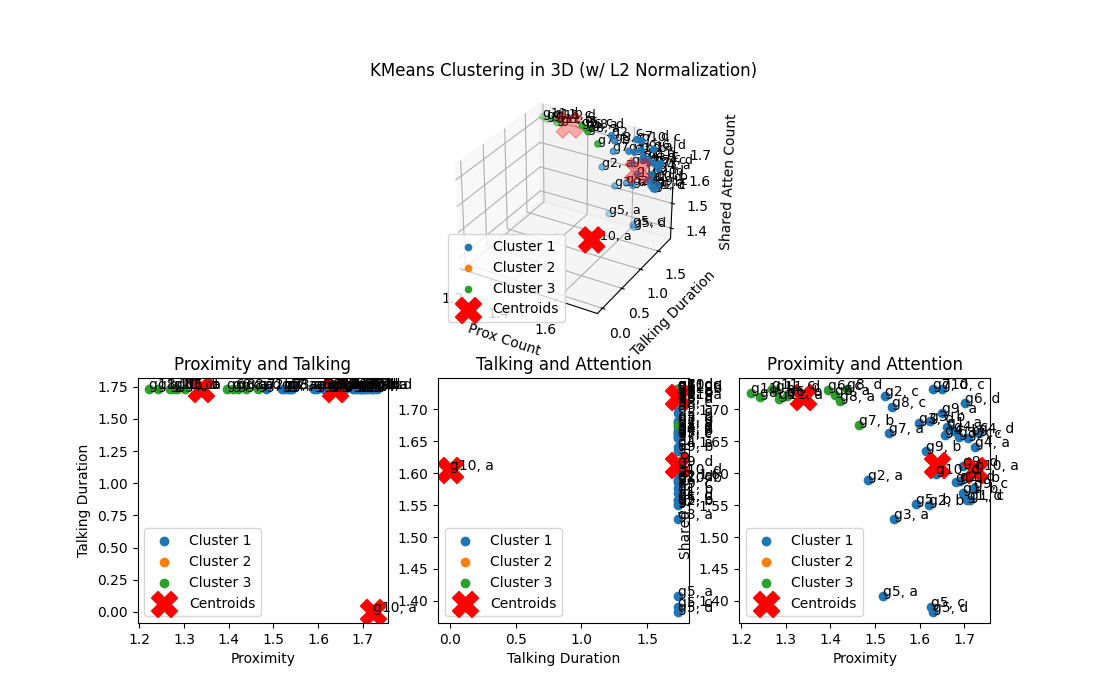
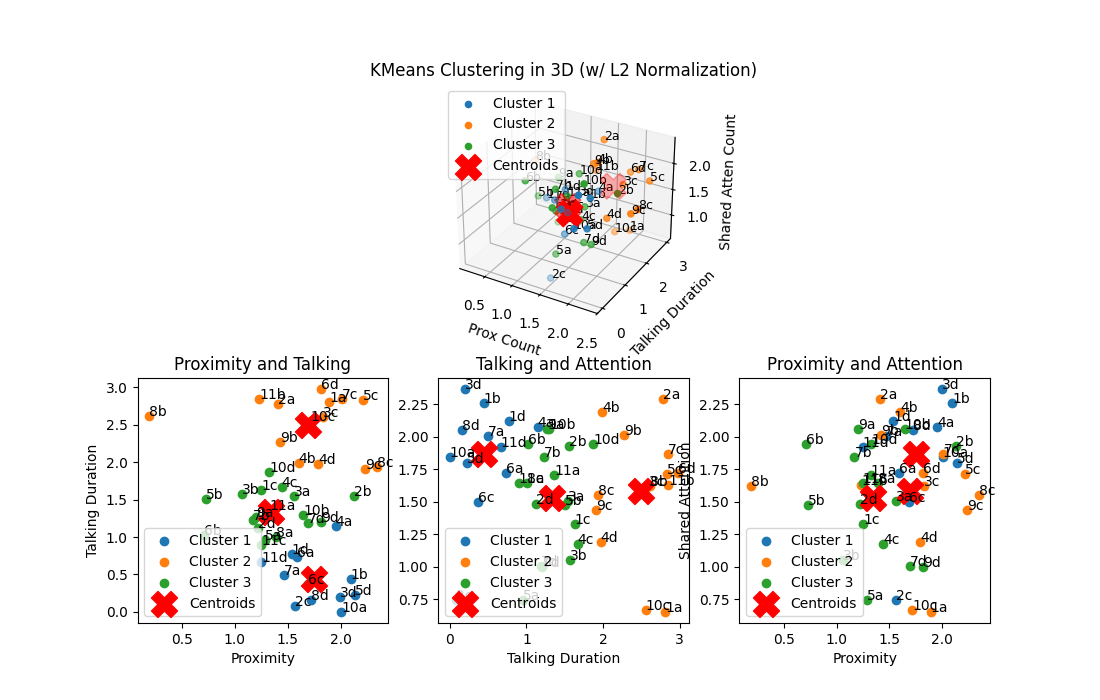
Normalized 3feature kmeans and 2feature kmeans (3 configurations) graph currently l1 but did also, l2.

diff --git a/kmeans_all_participant_2axis_summed_nodes_normalized.py b/kmeans_all_participant_2axis_summed_nodes_normalized.py
@@ -1,0 +1,201 @@
+# grab data
+import csv
+
+import matplotlib
+from DataSet import DataSet #custom class
+from OptimalClusterFinder import OptimalClusterFinder #custom class
+import numpy as np #scikit-learn requires this
+import itertools
+
+
+#kmeans
+from sklearn.cluster import KMeans #sci-kit learn
+import matplotlib.pyplot as plt # plotting
+from mpl_toolkits.mplot3d import Axes3D #3D MatPlotLib - if you have matplotlib, you have this
+
+#benchmark tutorial
+from time import time
+from sklearn import metrics
+from sklearn.pipeline import make_pipeline
+from sklearn.preprocessing import StandardScaler
+from sklearn.cluster import KMeans
+from sklearn.decomposition import PCA
+
+#save
+import os
+
+#debugging
+from pprint import pprint 
+
+def load_csv(file_name:str, directory:str="Data/")->list:
+    """Load CSV from Data directory.
+    :param file_name: Filename
+    :param directory: Directory where file is stored.
+    :returns: CSV data as a list contain a list for rows. Each row represents a group."""
+    file_path="Data/"
+    file_path+=file_name
+    with open(file_path, 'r') as file:
+        csv_reader = csv.reader(file)
+        data = []
+        for row in csv_reader:
+            data.append(row)
+    return data
+
+def clean_compeletion_csv(data:list)->tuple:
+    """Cleans up time/accuracy CSV for convient use.
+        :param data: List of list from load_csv(file_name) where each row is a group.
+        :returns: List of tuples (time (in secs):float, accuracy as percentage:float) with each row represents a group."""
+    clean_data=[]
+    data=data[1:]
+    for row in data:
+        junk, junk2, time = row[1].split()
+        hours, minutes, seconds = map(float, time.split(':'))
+        in_seconds = minutes * 60 + seconds
+        clean_data.append((in_seconds,float(row[2])))
+    return clean_data
+
+    #k-means documention: https://scikit-learn.org/1.5/modules/generated/sklearn.cluster.KMeans.html
+    #k-mean tutorial: https://scikit-learn.org/1.5/auto_examples/cluster/plot_kmeans_digits.html#sphx-glr-auto-examples-cluster-plot-kmeans-digits-py
+
+def get_names(num_groups)->list:
+    """Made this so I can add names to the dots in the matplotlib charts.
+    :returns: array of strings with names of each person [g#, letter], where g# is the group number and letter is the person in the group (person a, person b, person c, person d)"""
+    
+    total_participants=num_groups
+    names=[]
+    p=None
+    for i in range(num_groups*4):
+        if i % 4 == 0:
+            p=4
+        else:
+            p=i%4
+        names.append(f'{(i//4)+1}{chr(96+p)}')
+    return names
+
+def main():
+    num_groups=11
+    total_participants=num_groups*4
+    directory="/Graphs/All_Participant/Summed_Nodes/"
+    graph_name="l1_normalized_summed_nodes_of_for_2features"
+    
+    #load json data - must give a file name, can also take another folder relative to the location of the current file that calls it in the directory
+    prox_data=DataSet("proximity_graphs.json")
+    convo_data=DataSet("conversation_graphs.json")
+    atten_data=DataSet("shared_attention_graphs.json")
+
+    fig = plt.figure(figsize=(15, 5))
+    data_sets=2
+    num_clusters = 3
+    data_features=np.zeros((total_participants,data_sets))
+
+    #Overhead: so I can do this in one snazzy loop
+    features=[prox_data,convo_data, atten_data]
+    axises=[(0,1),(0,2),(1,2)]
+    axis_name=["Talking", "Proximity", "Attention"]
+    x_axis=0 #proximity
+    y_axis=1 #talking
+    name_labels=get_names(num_groups=11)
+    no_norm_data_features=np.zeros((total_participants,data_sets))
+
+
+    #Doing 2 Feature Kmeans for 3 combos of graphs
+    for index, axis in enumerate(axises):
+        for i in range(total_participants):
+            no_norm_data_features[i][0]=features[axis[0]].get_sum_all_nodes()[i]
+            no_norm_data_features[i][1]=features[axis[1]].get_sum_all_nodes()[i]
+        print("NOT NORMALIZED=========================")
+        print(no_norm_data_features)
+
+        for i in range(total_participants):
+            data_features[i][0]=features[axis[0]].get_sum_all_nodes_normalize(1)[i]
+            data_features[i][1]=features[axis[1]].get_sum_all_nodes_normalize(1)[i]
+
+        print("NORMALIZED=========================")
+        print(data_features)
+
+        ###### Make K Means Model and Extract Features ##########
+        data=data_features
+
+        # determine # of clusters
+        # leave this commented to show the final graph, you can view 3 silloute score OR final graph
+        # this_graph_name=str(graph_name + "_" + axis_name[axis[0]] + "_" + axis_name[axis[1]])
+        # finder = OptimalClusterFinder(data=data, max_clusters=10, graph_name=this_graph_name,directory=directory)
+        # finder.find_optimal_clusters()
+        # optimal_clusters = finder.get_optimal_clusters()
+        # print(f"")
+        # finder.plot_combined_metrics()
+
+        if axis==(0,1): #prox/convo
+            num_clusters=4
+        elif axis==(0,2): #prox/attention
+            num_clusters=3
+        elif axis==(1,2): #convo/atten
+            num_clusters=3
+
+        # Create KMeans model and fit the data
+        kmeans = KMeans(n_clusters=num_clusters, random_state=21) # seed at 21 because of forever 21
+        kmeans.fit(data)
+
+        # After the model is made, get the cluster centroids and labels
+        centroids = kmeans.cluster_centers_ # the center points of the cluster generated by the Kmeans model for each feature
+        labels = kmeans.labels_ # returns labels for each feature - this is useful because it tells us who is in what roles
+
+        roles=[[] for _ in range(num_clusters)]
+        p=None
+
+        for i, label in enumerate(labels):
+            if i % 4 == 0:
+                p=4
+            else:
+                p=i%4
+            roles[label].append(f'{(i//4)+1}{chr(96+p)}')
+
+        ## prints roles define by k cluster
+        print_name=graph_name + ":\n"+ axis_name[axis[0]] +" & "+axis_name[axis[1]]
+        print(print_name)
+        # if axis==(0,1):
+        #     print(f'Role 1\tRole 2\tRole 3\tRole 4')#there is 3 if num_clusters=3
+        #     print(29 * "_")
+        #     for element in itertools.zip_longest(*roles):
+        #         print(f'{element[0]}\t{element[1]}\t{element[2]}\t{element[3]}')#there is 3 if num_clusters=3
+
+        # else:
+        #     print(f'Role 1\tRole 2\tRole 3')#there is 3 if num_clusters=3
+        #     print(22 * "_")
+
+        #     for element in itertools.zip_longest(*roles):
+        #         print(f'{element[0]}\t{element[1]}\t{element[2]}')#there is 3 if num_clusters=3
+
+        print("\n")
+
+        ######## Plotting 2 feature of 3 feature Graph ########
+
+        num=130+1+index
+        ax1 = fig.add_subplot(num)
+
+        # Scatter plot
+        for i in range(num_clusters):
+            ax1.scatter(data[labels == i, x_axis], data[labels == i, y_axis], label=f'Cluster {i + 1}')
+
+        # labels put in the plot
+        for i in range(total_participants):
+            ax1.text(data[i, x_axis], data[i, y_axis], name_labels[i])  # Label each point with its index
+
+        # Plot centroids - center dots for clusters
+        ax1.scatter(centroids[:, x_axis], centroids[:, y_axis], s=350, c='red', marker='X', label='Centroids')
+
+        ax1.set_title(f'Kmeans for 2 Feature - {axis_name[axis[0]]} and {axis_name[axis[1]]}')
+        ax1.set_xlabel(f'{axis_name[axis[0]]}')
+        ax1.set_ylabel(f'{axis_name[axis[1]]}')
+        ax1.legend()
+
+
+    path=os.getcwd() 
+    path += directory
+    path += graph_name +".png"
+    plt.savefig(path)
+
+    plt.show()
+
+if __name__ == "__main__":
+    main()

diff --git a/kmeans_all_participant_3Daxis_summed_nodes_normalized.py b/kmeans_all_participant_3Daxis_summed_nodes_normalized.py
@@ -3,6 +3,7 @@ import csv
 
 import matplotlib
 from DataSet import DataSet #custom class
+from OptimalClusterFinder import OptimalClusterFinder #custom class
 import numpy as np #scikit-learn requires this
 import itertools
 
@@ -55,22 +56,6 @@ def clean_compeletion_csv(data:list)->tuple:
 
     #k-means documention: https://scikit-learn.org/1.5/modules/generated/sklearn.cluster.KMeans.html
     #k-mean tutorial: https://scikit-learn.org/1.5/auto_examples/cluster/plot_kmeans_digits.html#sphx-glr-auto-examples-cluster-plot-kmeans-digits-py
-
-def elbow_method(data:np.ndarray):
-    """Makes a plot using elbow methods for choosing clusters. Not as good as sillouete methods. But I did it because of a tuturial. I left it here but we will probably never use it."""
-    inertia = []
-    range_of_k = range(1, 11) # tries out different clusters from 1-10
-
-    for k in range_of_k:
-        kmeans = KMeans(n_clusters=k, random_state=33) # 42 is the seed because of Hitchhikers Guide. It's popularly used in tutorial. But I like 33 today
-        kmeans.fit(data)
-        inertia.append(kmeans.inertia_)
-
-    plt.plot(range_of_k, inertia, marker='o')
-    plt.title('The Elbow Method')
-    plt.xlabel('# of Clusters')
-    plt.ylabel('Inertia')
-    plt.show() #### based on the graph 3 looks good. Because 3 has low enirtia 
 
 def bench_k_means(kmeans, name, data, labels):
     """Benchmark to evaluate the KMeans initialization methods.
@@ -152,39 +137,46 @@ def get_names(num_groups)->list:
             p=4
         else:
             p=i%4
-        names.append(f'g{(i//4)+1}, {chr(96+p)}')
+        names.append(f'{(i//4)+1}{chr(96+p)}')
     return names
-
-def stub(my_string:str="stub"):
-    """function stub
-       :param my_string: a string
-       :returns: (str) a string"""
-    return my_string
 
 def main():
     num_groups=11
     total_participants=num_groups*4
+    directory="/Graphs/All_Participant/Summed_Nodes/"
+    graph_name="l2_normalized_summed_nodes_of_for_3features"
     
-    #loads csv data
-    compelition=clean_compeletion_csv(load_csv("completion_time_and_accuracy.csv"))
-
     #load json data - must give a file name, can also take another folder relative to the location of the current file that calls it in the directory
     convo_data=DataSet("conversation_graphs.json")
     prox_data=DataSet("proximity_graphs.json")
     atten_data=DataSet("shared_attention_graphs.json")
 
     #numpy array where data set is column and nodes are rows
-    data_sets=3 # different data sets, aka can be thought of as  features
+    data_sets=4 # different data sets, aka can be thought of as  features
     all_data=np.zeros((total_participants,data_sets))
+    no_norm_data_features=np.zeros((total_participants,data_sets))
+    for i in range(total_participants):
+        no_norm_data_features[i][0]=prox_data.get_sum_all_nodes()[i]
+        no_norm_data_features[i][1]=convo_data.get_sum_all_nodes()[i]
+        no_norm_data_features[i][2]=atten_data.get_sum_all_nodes()[i]
+    print("NOT NORMALIZED=========================")
+    print(no_norm_data_features)
+
     for i in range(total_participants):
         # these are counts or duration / seconds.##..
         all_data[i][0]=prox_data.get_sum_all_nodes_normalize(2)[i]
         all_data[i][1]=convo_data.get_sum_all_nodes_normalize(2)[i]
         all_data[i][2]=atten_data.get_sum_all_nodes_normalize(2)[i]
 
-    # Kmeans Attempt
-    ### Elbow Method #### - https://www.codecademy.com/learn/dspath-unsupervised/modules/dspath-clustering/cheatsheet (first figure)
-    # elbow_method(all_data)
+    print("NORMALIZED=========================")
+    print(all_data)
+
+  # determine # of clusters
+    finder = OptimalClusterFinder(data=all_data, max_clusters=10, graph_name=graph_name,directory=directory)
+    finder.find_optimal_clusters()
+    optimal_clusters = finder.get_optimal_clusters()
+    print(f"")
+    finder.plot_combined_metrics()
 
     ###### Make K Means Model and Extract Features ##########
     # Tell computer to divide in these number of clusters 
@@ -211,13 +203,14 @@ def main():
         roles[label].append(f'g{(i//4)+1}, {chr(96+p)}')
 
     ### prints roles define by k cluster
-    print(f'Role 1\tRole 2\tRole 3')#there is 3 if num_clusters=3
-    print(2 * "_")
+    print('\n'+graph_name)
+    print(f'Role 1\tRole 2\tRole 3\tRole 4')
+    print(29 * "_")
 
     for element in itertools.zip_longest(*roles):
         print(f'{element[0]}\t{element[1]}\t{element[2]}')#there is 3 if num_clusters=3
 
-    benchmarks(kmeans=kmeans, num_clusters=num_clusters, data=data, labels=labels)
+    # benchmarks(kmeans=kmeans, num_clusters=num_clusters, data=data, labels=labels)
 
     ####### Plotting - 3 Features ######
     # Plotting the results in 3D using axes 3d. Recommend matplotlib for 2d
@@ -311,10 +304,10 @@ def main():
 
 
     #must save before show
-    graph_name="L2_normalized_summed_nodes"
+
     path=os.getcwd() 
-    path += "/Graphs/All_Participant/Summed_Nodes/"
-    path += graph_name +"_of_for_3features.png"
+    path += directory
+    path += graph_name +".png"
     plt.savefig(path)
 
     # Add Verticle Space Padding

diff --git a/kmeans_all_participant_3Daxis_summed_nodes_unnormalized.py b/kmeans_all_participant_3Daxis_summed_nodes_unnormalized.py
@@ -190,7 +190,7 @@ def main():
 
     ### prints roles define by k cluster
     print('\n'+graph_name)
-    print(f'Role 1\tRole 2\tRole 3\tRole 4')#there is 3 if num_clusters=3
+    print(f'Role 1\tRole 2\tRole 3\tRole 4')
     print(29 * "_")
 
     for element in itertools.zip_longest(*roles):
